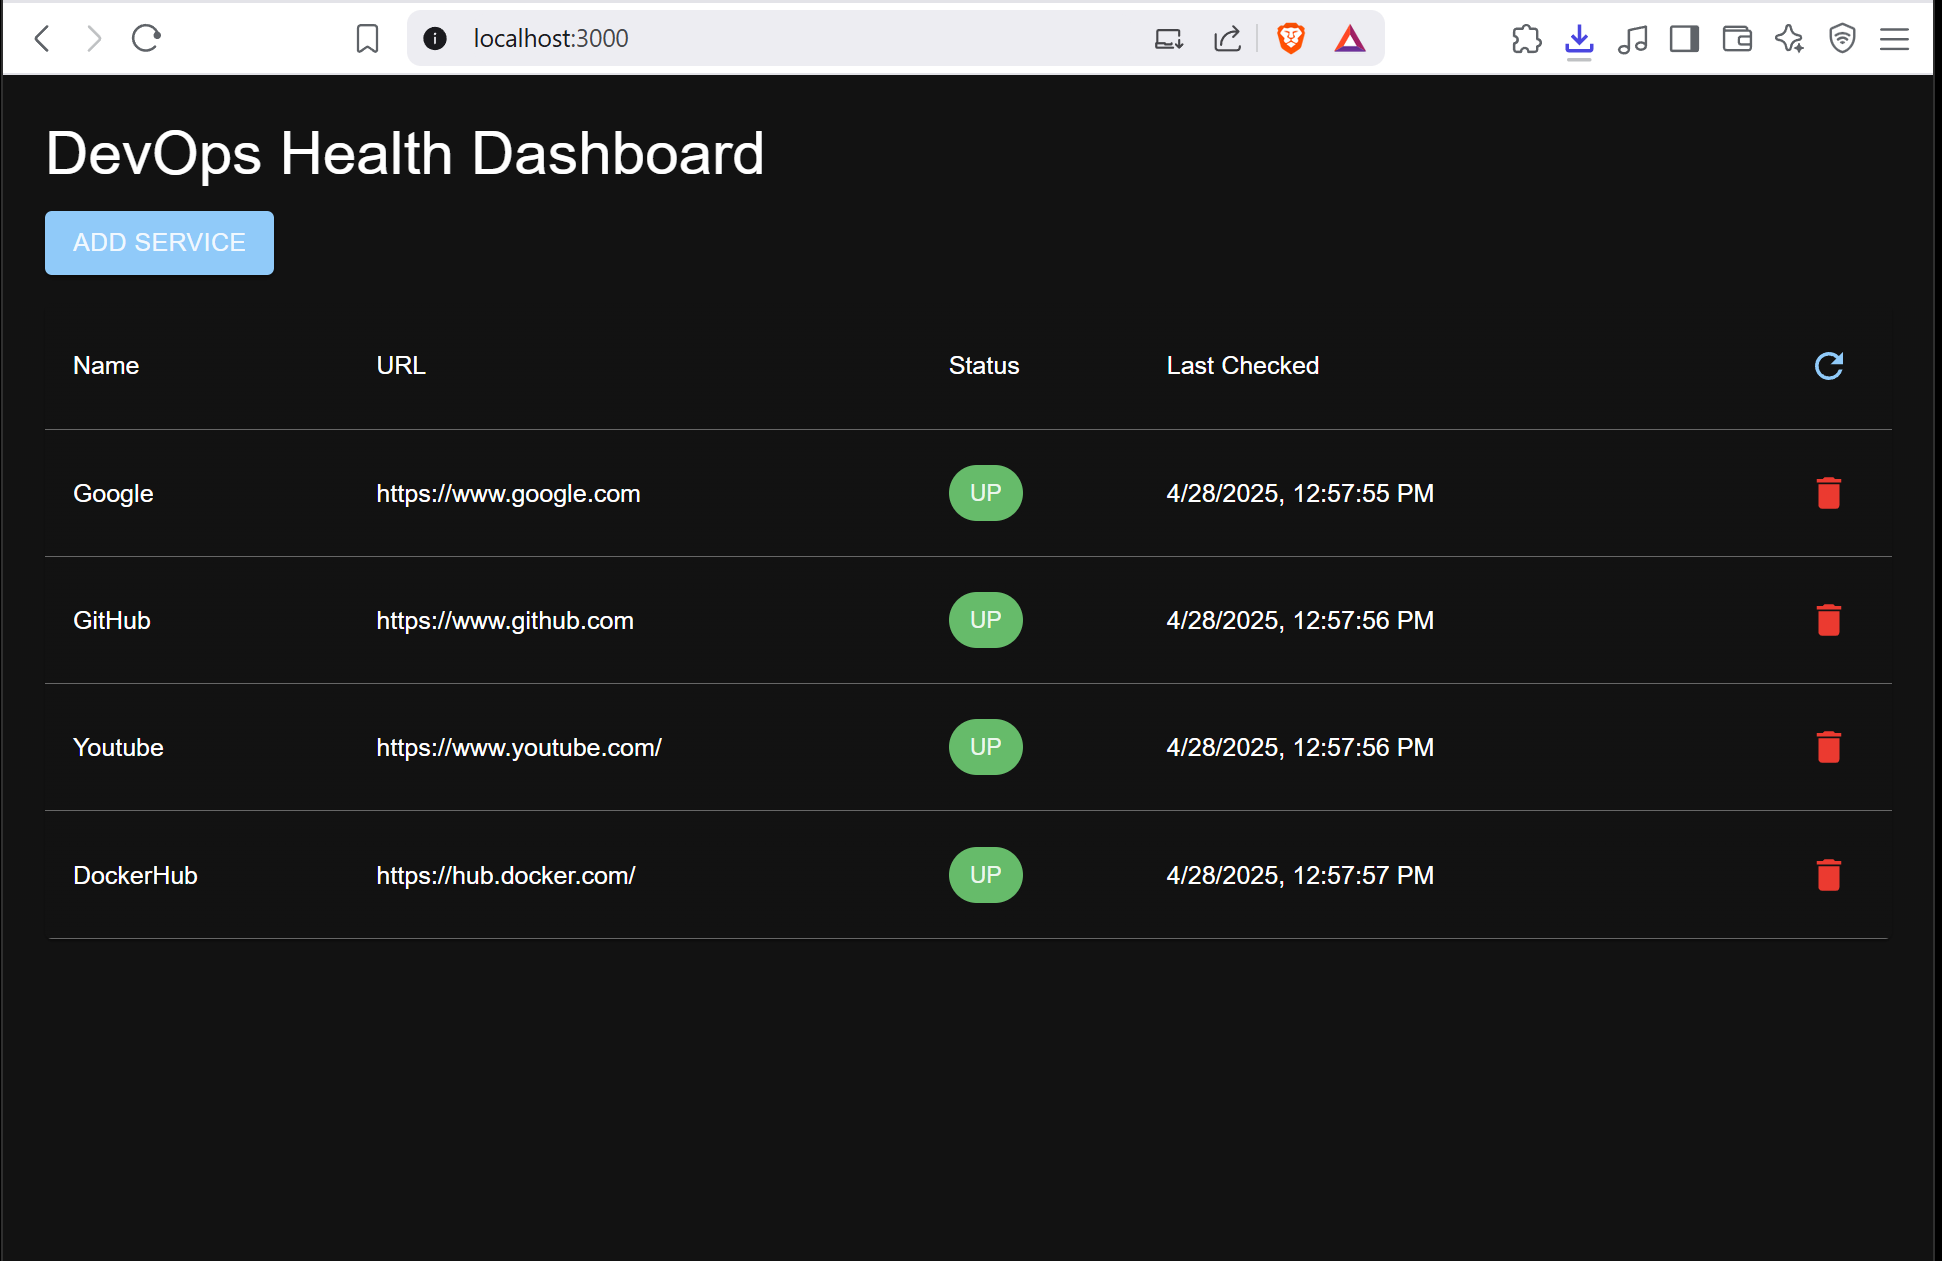
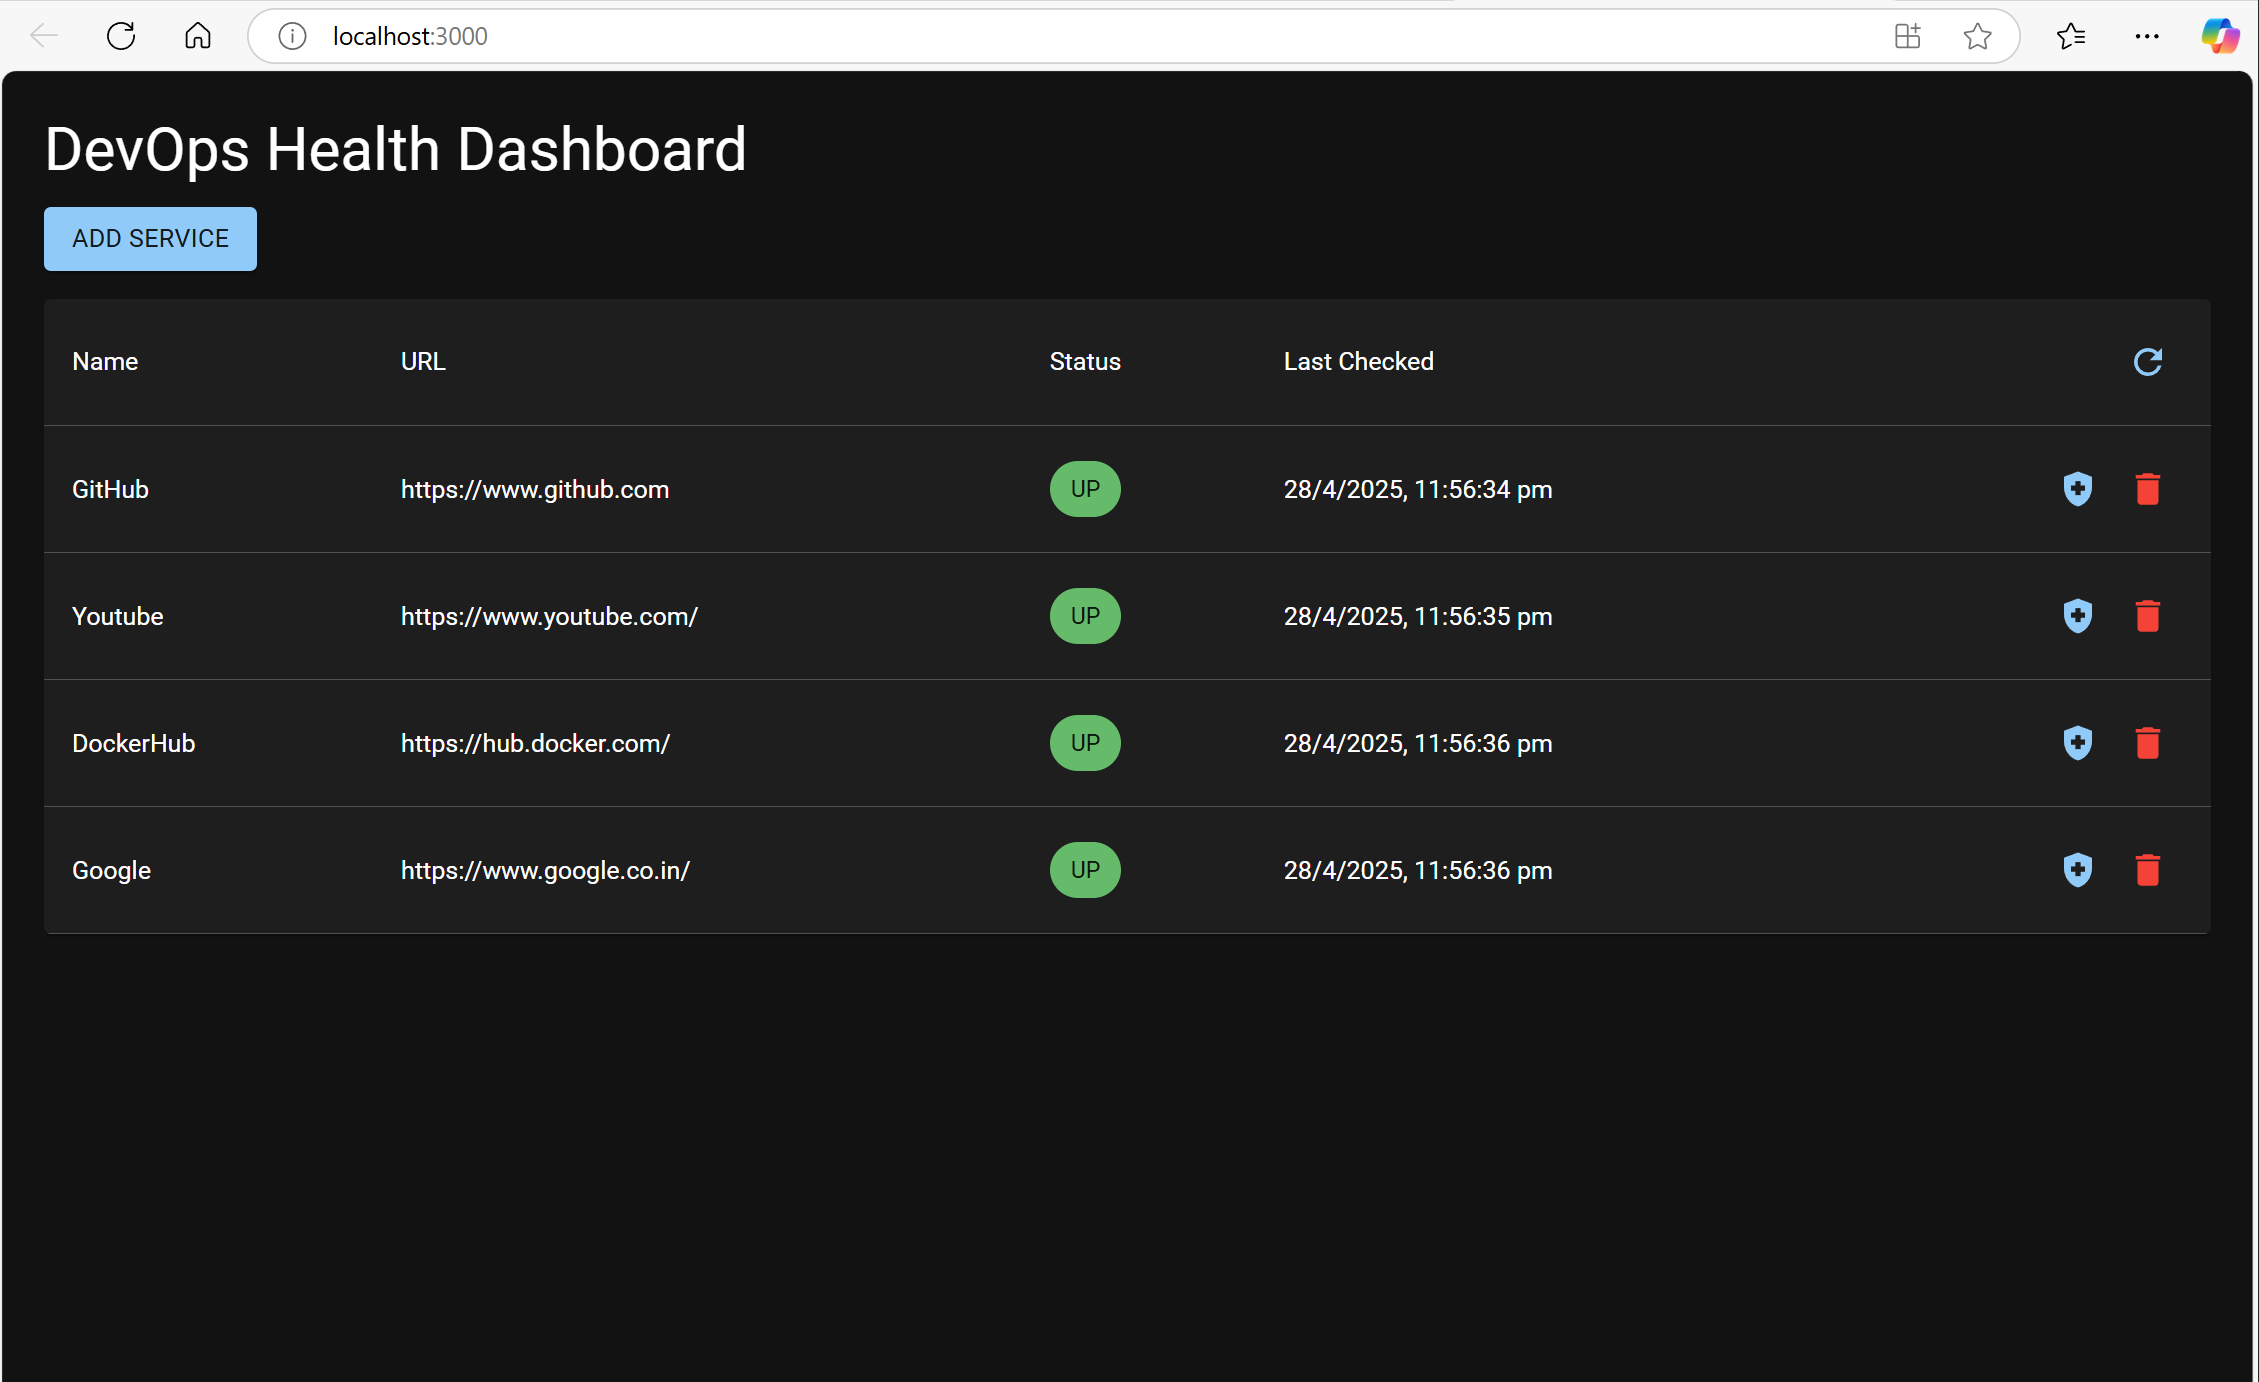
Feat/UI optimizations : Add service health check buttons and optimize polling (#3)
* [skip ci]  Feat/UI: Add manual service checks and optimize health polling

## Changes
- Added individual service check buttons
- Removed continuous polling in favor of manual refresh
- Added new backend endpoint for single service checks
- Improved UI feedback with snackbars

diff --git a/ui/src/pages/Dashboard.tsx b/ui/src/pages/Dashboard.tsx
@@ -1,14 +1,15 @@
 import React, { useState, useEffect } from 'react';
-import { Box, Button, Typography, CircularProgress, Alert } from '@mui/material';
+import { Box, Button, Typography, CircularProgress, Alert, Snackbar } from '@mui/material';
 import ServiceList from '../components/ServiceList';
 import AddServiceForm from '../components/AddServiceForm';
-import { getServices, addService, deleteService, Service } from '../services/api';
+import { getServices, addService, deleteService, checkSingleService, Service } from '../services/api';
 
 const Dashboard: React.FC = () => {
   const [services, setServices] = useState<Service[]>([]);
   const [loading, setLoading] = useState(true);
   const [error, setError] = useState<string | null>(null);
   const [openAddDialog, setOpenAddDialog] = useState(false);
+  const [snackbar, setSnackbar] = useState({ open: false, message: '' });
 
   const fetchServices = async () => {
     try {
@@ -26,16 +27,13 @@ const Dashboard: React.FC = () => {
 
   useEffect(() => {
     fetchServices();
-    
-    // Set up polling every 30 seconds
-    const interval = setInterval(fetchServices, 30000);
-    return () => clearInterval(interval);
   }, []);
 
   const handleAddService = async (service: Omit<Service, 'status' | 'last_checked'>) => {
     try {
       await addService(service);
       await fetchServices();
+      setSnackbar({ open: true, message: 'Service added successfully' });
     } catch (err) {
       setError('Failed to add service. Please try again.');
       console.error(err);
@@ -46,9 +44,26 @@ const Dashboard: React.FC = () => {
     try {
       await deleteService(name);
       setServices(services.filter(s => s.name !== name));
+      setSnackbar({ open: true, message: 'Service deleted successfully' });
     } catch (err) {
       setError('Failed to delete service. Please try again.');
       console.error(err);
+    }
+  };
+
+  const handleCheckService = async (name: string) => {
+    try {
+      setLoading(true);
+      const updatedService = await checkSingleService(name);
+      setServices(services.map(s => 
+        s.name === name ? { ...s, ...updatedService } : s
+      ));
+      setSnackbar({ open: true, message: `Checked service: ${name}` });
+    } catch (err) {
+      setError(`Failed to check service ${name}. Please try again.`);
+      console.error(err);
+    } finally {
+      setLoading(false);
     }
   };
 
@@ -75,6 +90,7 @@ const Dashboard: React.FC = () => {
           services={services} 
           onDelete={handleDeleteService}
           onRefresh={fetchServices}
+          onCheckService={handleCheckService}
         />
       )}
       
@@ -82,6 +98,13 @@ const Dashboard: React.FC = () => {
         open={openAddDialog}
         onClose={() => setOpenAddDialog(false)}
         onSubmit={handleAddService}
+      />
+
+      <Snackbar
+        open={snackbar.open}
+        autoHideDuration={3000}
+        onClose={() => setSnackbar({ ...snackbar, open: false })}
+        message={snackbar.message}
       />
     </Box>
   );

diff --git a/ui/src/components/ServiceList.tsx b/ui/src/components/ServiceList.tsx
@@ -1,15 +1,16 @@
 import React from 'react';
 import { Service } from '../services/api';
-import { Table, TableBody, TableCell, TableContainer, TableHead, TableRow, Paper, IconButton, Chip } from '@mui/material';
-import { Delete, Refresh } from '@mui/icons-material';
+import { Table, TableBody, TableCell, TableContainer, TableHead, TableRow, Paper, IconButton, Chip, Tooltip } from '@mui/material';
+import { Delete, Refresh, HealthAndSafety } from '@mui/icons-material';
 
 interface ServiceListProps {
   services: Service[];
   onDelete: (name: string) => void;
   onRefresh: () => void;
+  onCheckService: (name: string) => void;
 }
 
-const ServiceList: React.FC<ServiceListProps> = ({ services, onDelete, onRefresh }) => {
+const ServiceList: React.FC<ServiceListProps> = ({ services, onDelete, onRefresh, onCheckService }) => {
   return (
     <TableContainer component={Paper}>
       <Table>
@@ -20,9 +21,11 @@ const ServiceList: React.FC<ServiceListProps> = ({ services, onDelete, onRefresh
             <TableCell>Status</TableCell>
             <TableCell>Last Checked</TableCell>
             <TableCell align="right">
-              <IconButton onClick={onRefresh} color="primary">
-                <Refresh />
-              </IconButton>
+              <Tooltip title="Refresh All">
+                <IconButton onClick={onRefresh} color="primary">
+                  <Refresh />
+                </IconButton>
+              </Tooltip>
             </TableCell>
           </TableRow>
         </TableHead>
@@ -39,9 +42,16 @@ const ServiceList: React.FC<ServiceListProps> = ({ services, onDelete, onRefresh
               </TableCell>
               <TableCell>{service.last_checked ? new Date(service.last_checked).toLocaleString() : 'Never'}</TableCell>
               <TableCell align="right">
-                <IconButton onClick={() => onDelete(service.name)} color="error">
-                  <Delete />
-                </IconButton>
+                <Tooltip title="Check Health">
+                  <IconButton onClick={() => onCheckService(service.name)} color="primary">
+                    <HealthAndSafety />
+                  </IconButton>
+                </Tooltip>
+                <Tooltip title="Delete">
+                  <IconButton onClick={() => onDelete(service.name)} color="error">
+                    <Delete />
+                  </IconButton>
+                </Tooltip>
               </TableCell>
             </TableRow>
           ))}

diff --git a/ui/src/services/api.ts b/ui/src/services/api.ts
@@ -21,3 +21,8 @@ export const addService = async (service: Omit<Service, 'status' | 'last_checked
 export const deleteService = async (name: string): Promise<void> => {
   await axios.delete(`${API_BASE_URL}/services/${name}`);
 };
+
+export const checkSingleService = async (name: string): Promise<Service> => {
+  const response = await axios.get(`${API_BASE_URL}/services/${name}/check`);
+  return response.data;
+};

diff --git a/app/api.py b/app/api.py
@@ -2,6 +2,8 @@ from flask import Flask, jsonify, request
 from flask_cors import CORS
 from app.storage import load_services, save_services
 from app.logger import get_logger
+from app.checker import check_service
+from datetime import datetime, UTC
 import json
 
 logger = get_logger("api")
@@ -71,4 +73,33 @@ def delete_service(name):
 
     except Exception as e:
         logger.error(f"Error deleting service: {e}", exc_info=True)
+        return jsonify({"error": "Internal server error"}), 500
+
+
+@app.route("/services/<string:name>/check", methods=["GET"])
+def check_single_service(name):
+    try:
+        services = load_services()
+        service = next((s for s in services if s["name"] == name), None)
+        
+        if not service:
+            return jsonify({"error": f"Service '{name}' not found."}), 404
+            
+        # Perform the health check
+        is_up = check_service(service["url"])
+        status = "UP" if is_up else "DOWN"
+        
+        # Update the service status
+        service["status"] = status
+        service["last_checked"] = datetime.now(UTC).isoformat()
+        save_services(services)
+        
+        return jsonify({
+            "name": name,
+            "status": status,
+            "last_checked": service["last_checked"]
+        })
+        
+    except Exception as e:
+        logger.error(f"Error checking service {name}: {e}", exc_info=True)
         return jsonify({"error": "Internal server error"}), 500

diff --git a/ui/README.md b/ui/README.md
@@ -8,7 +8,8 @@ A React-based frontend for monitoring the status of your services, connecting to
 
 - Real-time service status monitoring
 - Add/remove services from the dashboard
-- Automatic refresh every 30 seconds
+- Manual refresh control
+- Individual service health checks
 - Visual status indicators (UP/DOWN)
 - Responsive design
 - Dark/Light theme support
@@ -73,6 +74,8 @@ You can configure the following environment variables:
 Ensure your backend is running and accessible at the URL specified in your .env file. By default, it expects the backend at http://localhost:5000.
 
 ## Project Structure
+
+```bash
 ui/
 ├── public/              # Static files
 ├── src/
@@ -85,15 +88,18 @@ ui/
 ├── .env                 # Environment variables
 ├── Dockerfile           # Production Docker configuration
 └── nginx.conf           # Nginx configuration
+```
 
 ## Troubleshooting
-CORS Errors
-If you see CORS errors:
+**CORS Errors** 
+- Ensure your backend is running
+- Verify the REACT_APP_API_URL in your .env file
+- Confirm your Flask backend has CORS enabled
 
-Ensure your backend is running
-Verify the REACT_APP_API_URL in your .env file is correct
-
-Consider adding CORS support to your Flask backend
+**Service Checks Not Working**
+- Verify the backend has the new /services/<name>/check endpoint
+- Check browser console for errors
+- Ensure service URLs are correct
 
 ## Contributing
 Pull requests are welcome. For major changes, please open an issue first to discuss what you would like to change.

diff --git a/README.md b/README.md
@@ -22,8 +22,8 @@ A **production-ready** monitoring solution for DevOps teams to track service hea
   - Responsive design
 
 - **CI/CD with GitHub Actions**:
-  This project uses GitHub Actions for continuous integration (CI) and continuous deployment (CD). The CI/CD pipeline automates the process of building, testing, and deploying the application.
-  The CI pipeline is defined in `.github/workflows/ci-cd.yml`. You can find further documentation in `.github/workflows/readme.md`.
+  - This project uses GitHub Actions for continuous    integration (CI) and continuous deployment (CD). The CI/CD pipeline automates the process of building, testing, and deploying the application.
+  - The CI pipeline is defined in `.github/workflows/ci-cd. yml`. You can find further documentation in `.github/ workflows/readme.md`.
 
 *\[Detailed UI documentation available in `ui/README.md`\]*
 
@@ -47,6 +47,7 @@ python -m app.run
 ### Docker Deployment: Full System (Backend + Frontend)
 
 ```bash
+cd docker/dev/
 docker-compose -f docker-compose.base.yml -f docker-compose.override.yml up --build
 ```
 
